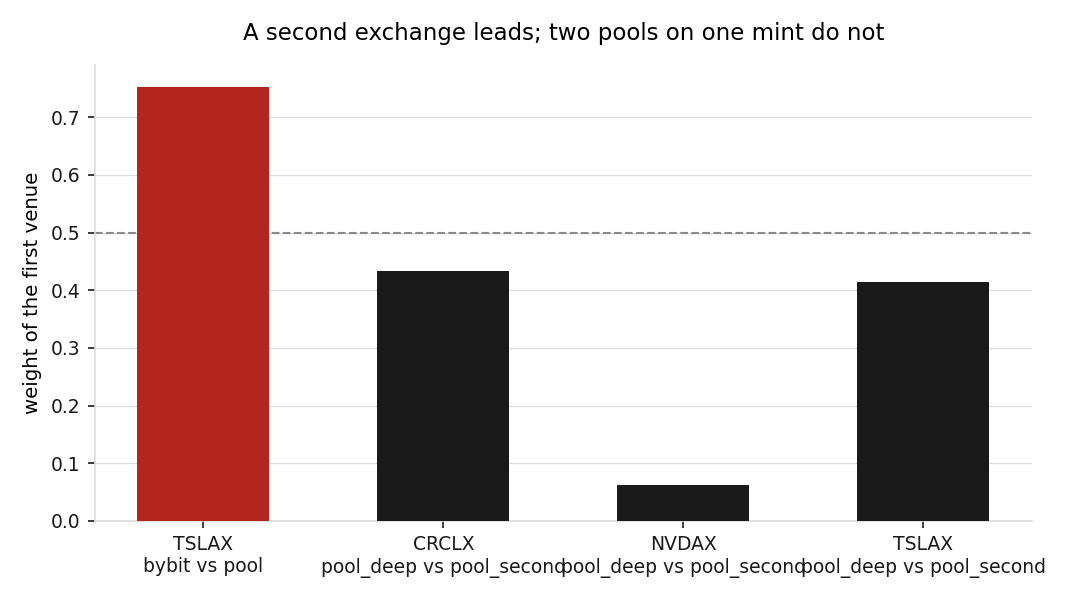
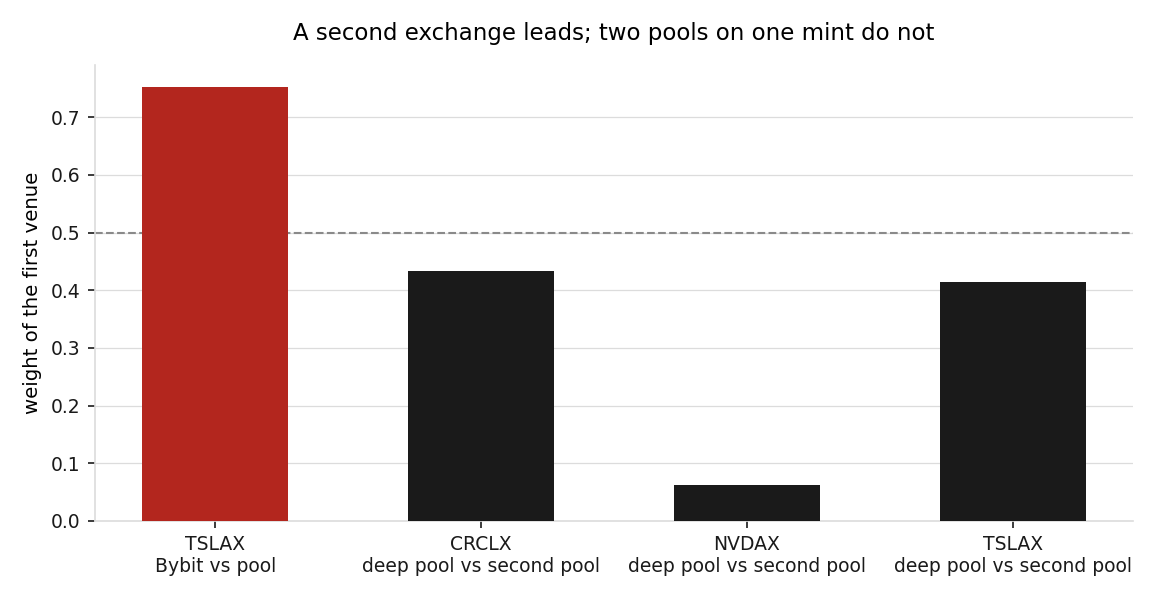
Audit pass: the filter the post never mentioned, and the drift CI never saw
The universe screen has always had a twenty-thousand-dollar floor on Gate's
24-hour volume, hardcoded as a default argument and disclosed nowhere in the
text. A reader reproducing the universe from the post's own description would
have built a different one. The floor is a named constant now, the post
discloses it in the sentence that describes the screen, and a guard ties the
words to the value. Same class of omission, smaller: the method section now
says the exchange endpoints serve the last thousand one-minute bars, which is
where the sixteen-hour window the prose already leaned on comes from.

CI ran every generator and compared nothing, so a commit whose CSVs or page
disagreed with what regeneration produces would still have passed. It ends
with git diff --exit-code over data, post/data and index.html now. PNGs stay
out deliberately: freetype moves bytes between machines without moving
content.

The rest of the pass: windows.py's CLI default still stopped at the second
day; the dashboard hardcoded its date range and its through-31-July cell in
prose, both derived from the pass constants now; the collision screen joined
the README's module table; two figures had readable defects, the weights
legend sitting on its own title and the controls tick labels running into
each other, both regeometried and eyeballed.

Anti-AI: rather-than count thinned from 23 to 13, keeping the load-bearing
contrasts and the section heading. Sweep 124 of 137, the 13 green all URL
[…]

diff --git a/index.html b/index.html
@@ -49,7 +49,7 @@
 <p class="sub">24 xStocks quoted at once on Gate and in Solana pools.
 The exchange sets the price in 21 of 23 rankable pair-days,
 the quieter a token's pool the more the exchange prints against it, and the
-exceptions are named. Collected daily, 29 to 31 July 2026.</p>
+exceptions are named. Collected daily, 29 July 2026 to 31 July 2026.</p>
 
 <div class="cards">
   <div class="card"><b>-0.93</b><span>rank correlation between pool activity

diff --git a/dashboard/build_dashboard.py b/dashboard/build_dashboard.py
@@ -28,6 +28,17 @@ SERIES_PASS = "2026-07-29b"
 NEXT_DAY = "2026-07-30"
 THIRD_DAY = "2026-07-31"
 
+_MONTHS = {"07": "July", "08": "August"}
+
+
+def _spoken(label: str) -> str:
+    """A pass label like 2026-07-31 as the prose writes it."""
+    _, month, day = label.split("-")[:3]
+    return f"{int(day)} {_MONTHS[month]}"
+
+
+LAST_DAY_TEXT = _spoken(THIRD_DAY)
+
 __all__ = ["build"]
 
 STYLE = """
@@ -83,7 +94,7 @@ TEMPLATE = """<!doctype html>
 <p class="sub">{n_tokens} xStocks quoted at once on Gate and in Solana pools.
 The exchange sets the price in {led_days} of {pair_days} rankable pair-days,
 the quieter a token's pool the more the exchange prints against it, and the
-exceptions are named. Collected daily, 29 to 31 July 2026.</p>
+exceptions are named. Collected daily, {first_date} to {last_date}.</p>
 
 <div class="cards">
   <div class="card"><b>{rho}</b><span>rank correlation between pool activity
@@ -189,7 +200,7 @@ def _checks_table(rob: pd.DataFrame, vec: pd.DataFrame, lags: pd.DataFrame,
          f"same leader in {int((grid_ok.groupby('symbol').leads.nunique() == 1).sum())} "
          f"of {grid_ok.symbol.nunique()}"),
         ("Does it survive different days",
-         "collection repeated daily through 31 July",
+         f"collection repeated daily through {LAST_DAY_TEXT}",
          f"led in every window ranked, {int(cross.led_every_window.sum())} of "
          f"{len(cross)} tokens"),
     ]
@@ -267,6 +278,8 @@ def build() -> Path:
         rho=f"{spearman(groups.paired_min, groups.ratio):.2f}",
         led_days=led_days,
         pair_days=pair_days,
+        first_date=f"{_spoken(SERIES_PASS[:10])} 2026",
+        last_date=f"{LAST_DAY_TEXT} 2026",
         rho_low=f"{relation_days.rho.min():.2f}",
         rho_high=f"{relation_days.rho.max():.2f}",
         led_multi=int(cross.led_every_window.sum()),

diff --git a/analysis/build_analysis.py b/analysis/build_analysis.py
@@ -86,10 +86,13 @@ def figure_weights(panel: pd.DataFrame) -> None:
                label="pool", zorder=3)
     right.set_yticks(y, allr.symbol, fontsize=8.5)
     right.set_xlabel("share of the gap closed per minute", fontsize=9.5)
-    right.set_title("Who moves toward whom", fontsize=10.5, pad=20)
-    # Inside the axes this lands on the bottom token's bars, so it goes above.
-    right.legend(frameon=False, fontsize=8.5, loc="lower center",
-                 bbox_to_anchor=(0.5, 1.02), ncol=2)
+    right.set_title("Who moves toward whom", fontsize=10.5, pad=30)
+    # Inside the axes this lands on the bottom token's bars; directly above,
+    # it landed on the title. The title gets extra padding and the legend sits
+    # in the gap between the two.
+    right.legend(frameon=False, fontsize=8, loc="lower center",
+                 bbox_to_anchor=(0.5, 1.005), ncol=2, handlelength=1.6,
+                 columnspacing=1.2)
     _style(right)
     fig.tight_layout()
     fig.savefig(FIGS / "weights.png", dpi=150)
@@ -122,9 +125,12 @@ def figure_sessions(panel: pd.DataFrame) -> None:
 def figure_controls(matrix: pd.DataFrame) -> None:
     """A second exchange leads too; two pools on one mint do not."""
     rows = matrix.dropna(subset=["weight_a"]).copy()
+    short = {"bybit": "Bybit", "pool": "pool", "pool_deep": "deep pool",
+             "pool_second": "second pool"}
     rows["label"] = rows.apply(
-        lambda r: f"{r.token}\n{r.venue_a} vs {r.venue_b}", axis=1)
-    fig, ax = plt.subplots(figsize=(7.2, 4.0))
+        lambda r: f"{r.token}\n{short[r.venue_a]} vs {short[r.venue_b]}",
+        axis=1)
+    fig, ax = plt.subplots(figsize=(7.8, 4.0))
     colours = [ACCENT if r.venue_a in ("bybit", "mexc") else INK
                for _, r in rows.iterrows()]
     x = np.arange(len(rows))

diff --git a/analysis/verify.py b/analysis/verify.py
@@ -30,6 +30,7 @@ sys.path.insert(0, str(Path(__file__).resolve().parent.parent))
 import pandas as pd
 
 from analysis.bootstrap import sign_test
+from analysis.collect import MIN_CEX_VOLUME
 from analysis.robustness import MIN_PAIRED
 from analysis.relation import spearman, test_relation
 
@@ -319,6 +320,12 @@ checks = [
      f"The exchange leads in {led_days} of {pair_days} rankable pair-days"),
     ("pair-days in the limits section", led_days * 100 + pair_days, 2123,
      f"It rests on {led_days} of {pair_days} pair-days pointing the same way"),
+    ("universe volume floor", int(MIN_CEX_VOLUME), 20000,
+     f"at least {'twenty thousand' if MIN_CEX_VOLUME == 20000 else 'ERR'} "
+     "dollars of 24-hour volume"),
+    ("floor is below every kept token",
+     int((u.cex_volume_24h >= MIN_CEX_VOLUME).all()), 1,
+     "printed at least twenty"),
     ("collision screen pools", len(collisions), 13,
      f"found {len(collisions)} Solana pools answering to "
      f"{collisions.symbol.nunique()} of these tickers"),

diff --git a/analysis/collect.py b/analysis/collect.py
@@ -22,6 +22,10 @@ DATA = Path(__file__).resolve().parent.parent / "data"
 CTX = ssl.create_default_context(cafile=certifi.where())
 UA = {"User-Agent": "Mozilla/5.0 (Macintosh; Intel Mac OS X 10_15_7)"}
 MINT_PREFIX = "Xs"  # Backed Finance vanity prefix for xStocks mints
+# Pairs printing less than this on the exchange in 24 hours are skipped when
+# the universe is built: a tape that thin cannot be ranked against anything.
+# The post discloses the floor, and verify.py ties its sentence to this value.
+MIN_CEX_VOLUME = 20_000.0
 
 __all__ = ["build_universe", "cex_bars", "dex_bars", "load_universe"]
 
@@ -39,7 +43,7 @@ def _get(url: str, timeout: int = 30, retries: int = 4) -> dict | list:
     raise RuntimeError("unreachable")
 
 
-def build_universe(min_cex_volume: float = 20_000.0) -> pd.DataFrame:
+def build_universe(min_cex_volume: float = MIN_CEX_VOLUME) -> pd.DataFrame:
     """Tokens quoted both on Gate and in a Solana pool, with the mint verified.
 
     Arguments:

diff --git a/analysis/windows.py b/analysis/windows.py
@@ -157,4 +157,4 @@ def run(labels: list[str]) -> None:
 
 
 if __name__ == "__main__":
-    run(sys.argv[1:] or ["2026-07-29b", "2026-07-30"])
+    run(sys.argv[1:] or ["2026-07-29b", "2026-07-30", "2026-07-31"])

diff --git a/post/index.md b/post/index.md
@@ -54,14 +54,15 @@ sit six tokens with no on-chain market to check the exchange against at all.
 
 ## The universe
 
-Every Gate USDT pair whose ticker ends in X was matched to a Solana pool.
-Ticker matching alone is not safe here: a re-screen after the third collection
-day, committed as `data/collisions.csv`, found 13 Solana pools answering to 10
-of these tickers on mints that are not the issuer's. Their claimed liquidity
-was negligible that day, and the population is not stable: impostor pools
-appear and vanish between screens. Each pool was therefore checked against the
-mint prefix Backed uses for its issued tokens, and only exact-symbol pools on
-that issuer's mint were kept.
+Every Gate USDT pair whose ticker ends in X and printed at least twenty
+thousand dollars of 24-hour volume was matched to a Solana pool. Ticker
+matching alone is not safe here: a re-screen after the third collection day,
+committed as `data/collisions.csv`, found 13 Solana pools answering to 10 of
+these tickers on mints that are not the issuer's. Their claimed liquidity was
+negligible that day, and the population is not stable: impostor pools appear
+and vanish between screens. Each pool was therefore checked against the mint
+prefix Backed uses for its issued tokens, and only exact-symbol pools on that
+issuer's mint were kept.
 
 That leaves **24 tokens quoted on both venues**. Per dollar of on-chain volume
 in the same mint, Gate's 24-hour volume ranges from 16 cents to **7,311
@@ -225,9 +226,9 @@ show a market exists. They are named in `data/token_groups.csv` with the rest.
 Everything above rests on one estimator, one specification and one stretch of
 minutes. Five things could have produced it with no venue leading anything.
 Each is answered against the first day's series pass, whose minute series are
-committed under `raw/`, so every check can be re-run rather than taken on
-trust. The sixth question, whether any of it survives being measured again, has
-its own section after them.
+committed under `raw/`, so every check can be re-run instead of taken on trust.
+The sixth question, whether any of it survives being measured again, has its
+own section after them.
 
 ### Cointegration, tested rather than assumed
 
@@ -243,13 +244,13 @@ minutes and usually inside two.
 ### The error term, fitted instead of imposed
 
 Stationarity is tested on the spread of log prices, which imposes a
-cointegrating vector of one to minus one rather than fitting it. Two venues
+cointegrating vector of one to minus one instead of fitting it. Two venues
 quoting one mint should move one for one, and imposing that buys precision, but
 it is an assumption and it can fail: a pool at a proportional discount that
 widens with the price would need a coefficient away from one, and the spread
 built the wrong way would not be the error the model thinks it is.
 
-Fitted rather than imposed, the coefficient comes out between 0.85 and 1.00,
+Fitted instead of imposed, the coefficient comes out between 0.85 and 1.00,
 below one in every pair. That is what noise in a regressor does, not evidence
 of scaling: a pool quote carries error, and error in a regressor drags its
 slope toward zero. The test that survives that is whether one sits inside the
@@ -265,8 +266,8 @@ of the same data.
 Gonzalo-Granger reads leadership off the correction speeds and ignores how
 correlated the two venues' innovations are. Hasbrouck (1995) splits the
 variance of the efficient price innovation instead, and the two are different
-quantities rather than two names for one: with uncorrelated innovations and
-equal variances the second reduces to the square of the first over the sum of
+quantities, not two names for one: with uncorrelated innovations and equal
+variances the second reduces to the square of the first over the sum of
 squares, so a weight of 0.80 corresponds to a share near 0.94. Only the
 direction can be compared, and it agrees in **7 of 7** pairs. Hasbrouck's
 bounds are informative here because the innovation correlation is a median 0.39
@@ -393,7 +394,7 @@ hours the exchange window reaches, after 142 paired minutes the day before. A
 pool that is a venue one day and absent the next is the volatility of the thin
 end of this market, measured.
 
-Three collection notes rather than footnotes. The second and third days both
+Three collection notes, none of them footnotes. The second and third days both
 lost their network mid-run and were topped up within hours, so each holds two
 collection sessions; per-token timestamps are in each run's `coverage.csv`, and
 each day's ratios use that day's own morning snapshot. Tokens whose pools could
@@ -408,7 +409,8 @@ strongest form of the pattern the measurement shows.
 Both sides are free and need no key: Gate's public candlestick endpoint and
 Bybit's spot kline endpoint for the exchange minutes, GeckoTerminal's pool
 OHLCV endpoint for the on-chain minutes, and Dexscreener for pool discovery
-with the mint prefix check.
+with the mint prefix check. The exchange endpoints serve the last thousand
+one-minute bars, which is the sixteen-hour window every pass works inside.
 
 ### Which collection each number comes from
 
@@ -450,7 +452,7 @@ this study as follows.
   change the ranking, since a common move cancels in the difference.
 - `tradecount` is the total number of trades in a timeframe. It appears here
   in a coarser form, the number of minutes in which a venue printed at all,
-  because the public minute endpoints expose bars rather than a trade feed.
+  because the public minute endpoints expose bars, not a trade feed.
   That is the form that matters when one venue prints in four minutes out of
   four hundred and eighty.
 - `volumedist` analyses the distribution of trading volumes. This post does not
@@ -470,7 +472,7 @@ weights are read off the two error-correction speeds.
 ### The estimator and its limits
 
 The estimator is calibrated against a simulator whose answer is fixed by
-construction, so it can be checked rather than trusted. The calibration is
+construction, so it can be checked instead of trusted. The calibration is
 `analysis/calibrate.py`, ninety-six runs over eight speed pairs, and it is
 committed as `data/calibration.csv`. It says the fit is worse than a single
 weight makes it look.
@@ -480,9 +482,9 @@ average, in every speed pair tested. That is why four of the nine exchange
 weights sit slightly above one, a value the decomposition cannot really take.
 
 The scatter is not small. A single run lands anywhere from 0.33 below the truth
-to 0.28 above it, and that holds across the whole grid rather than only where
-the two venues correct at similar speeds. One token's weight is therefore a
-weak reading on its own, and no weight in this post should be read as a point
+to 0.28 above it, and that holds across the whole grid, not only where the two
+venues correct at similar speeds. One token's weight is therefore a weak
+reading on its own, and no weight in this post should be read as a point
 estimate.
 
 What survives that scatter is the ordering. Across the runs where the true
@@ -533,7 +535,7 @@ python analysis/format_post.py --check             # wrapping is settled
 python analysis/check_post.py                      # formatting, spelling, links
 ```
 
-A fresh window is a new directory rather than an overwrite:
+A fresh window is a new directory, never an overwrite:
 
 ```bash
 python analysis/collect_raw.py 2026-08-05 --refresh-universe
@@ -547,10 +549,10 @@ of July 2026. Nothing here is a claim about other issuers, other chains,
 coarser horizons, or other months.
 
 The underlying equities trade on NYSE and NASDAQ, and during US hours both
-venues in every pair are importing a price from there rather than discovering
-it. The open-against-shut split separates the two regimes and the answer holds
-in both, but no third leg reads the primary listing, so this measures which of
-the two crypto venues moves first, not where the price is born.
+venues in every pair are importing a price from there, not discovering it. The
+open-against-shut split separates the two regimes and the answer holds in both,
+but no third leg reads the primary listing, so this measures which of the two
+crypto venues moves first, not where the price is born.
 
 Leadership claims are made only for pairs with at least 120 paired minutes, and
 near-even weights are read as shared discovery, never as a lead. The volume

diff --git a/README.md b/README.md
@@ -33,6 +33,7 @@ page. Everything in both is reproducible from this repository, and
 | `analysis/vector.py` | whether imposing a cointegrating vector of one to minus one changes any conclusion |
 | `analysis/windows.py` | the headline correlation and the per-token leadership, recomputed inside each collection day |
 | `analysis/calibrate.py` | what the estimator does to an answer it already knows |
+| `analysis/collisions.py` | records the ticker collisions the universe screen filters out |
 | `analysis/relation.py` | the rank correlation behind the grouping, with a permutation test |
 | `analysis/verify.py` | reads every number in `post/index.md` back out of the CSVs |
 | `analysis/check_post.py` | the post's formatting, spelling and link rules |
